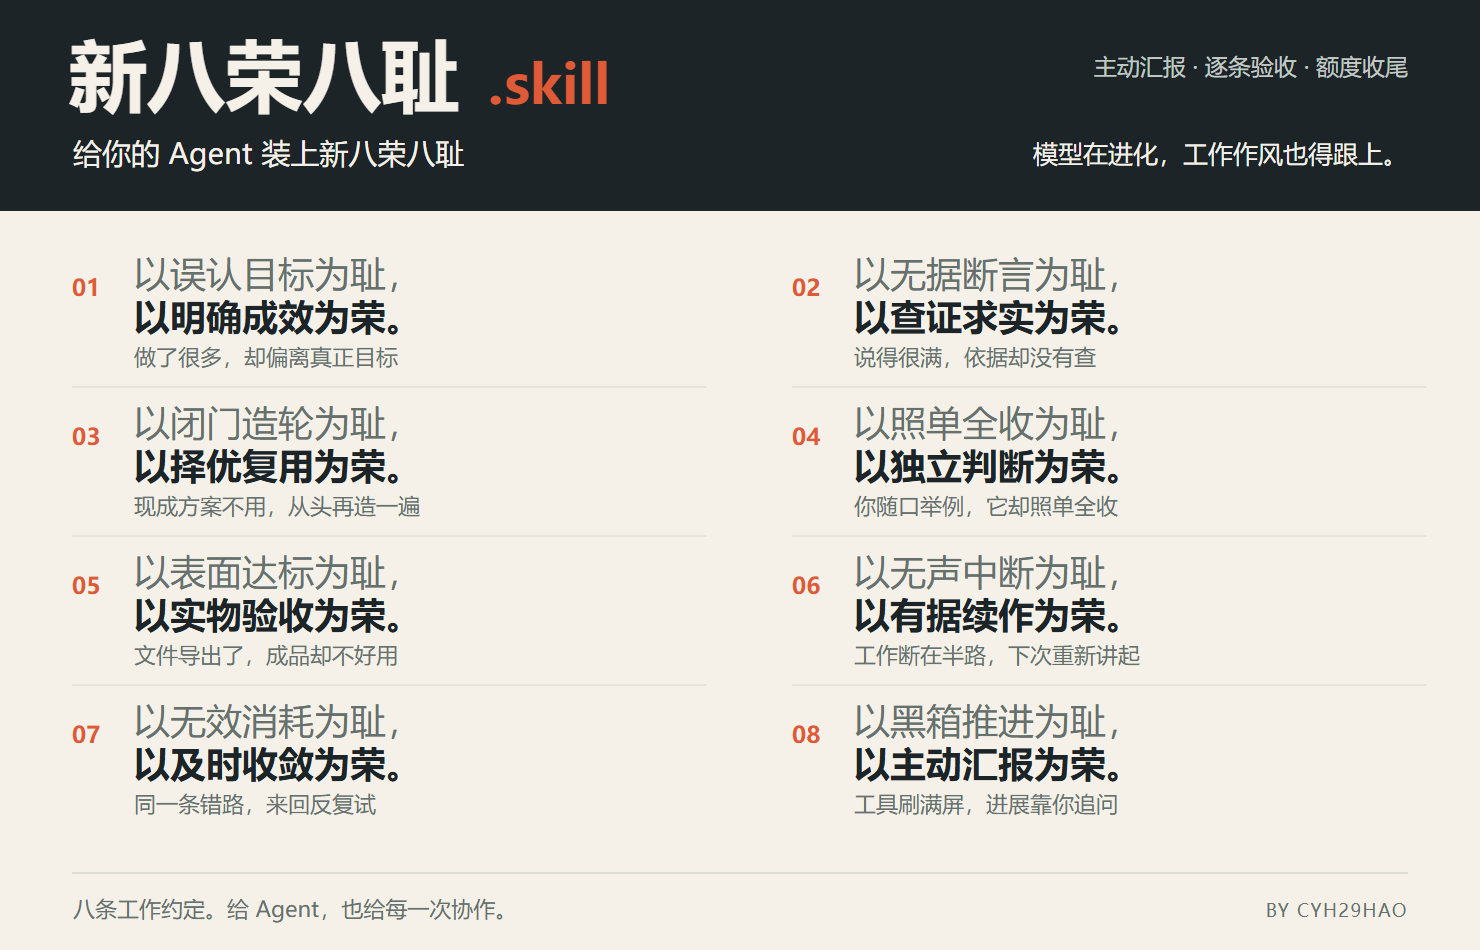
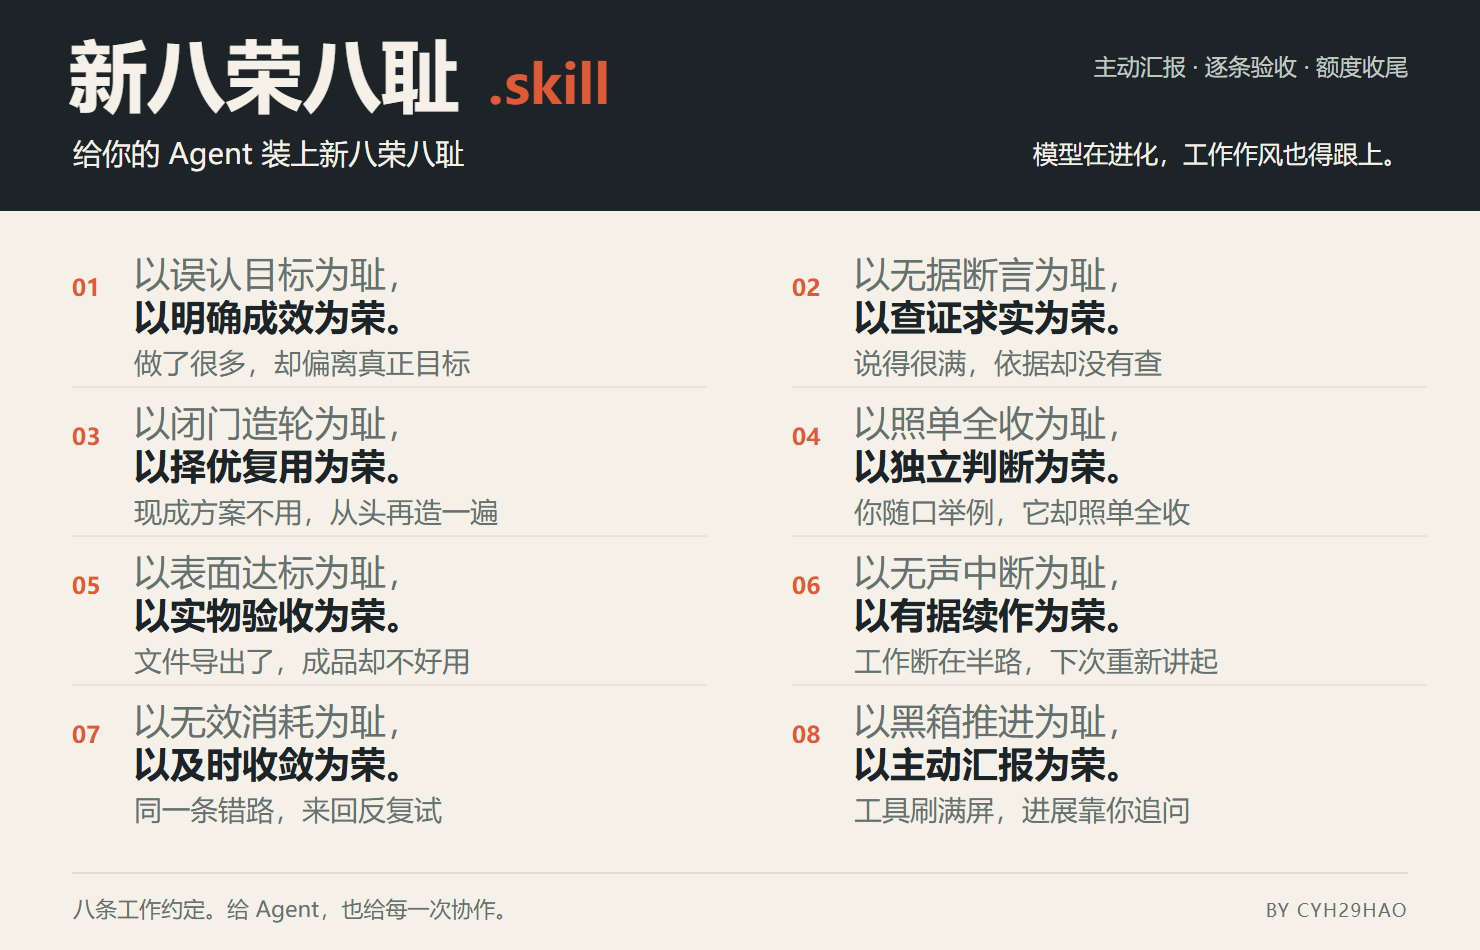
Keep the new principles readable and document rename compatibility

diff --git a/docs/sharing.md b/docs/sharing.md
@@ -4,7 +4,7 @@
 
 ## 图片
 
-- [新版八条全文图](../assets/principles-desktop.png)：1480 × 894，适合横向分享。
+- [新版八条全文图](../assets/principles-desktop.png)：1480 × 950，逐条附痛点注解，适合横向分享。
 - [新版八条全文竖图](../assets/principles-mobile.png)：900 × 1380，适合手机阅读与小红书配图。
 - [主动汇报](../assets/records/progress-mobile.png)、[完整八条](../assets/records/eight_principles-mobile.png)、[额度收尾](../assets/records/quota_closeout-mobile.png)：2026-10-29 实际项目的原文排版，须保留原文与节选标记。
 - 同目录保留 SVG 源文件，文字可编辑，不必重新生成整张图。

diff --git a/docs/validation.md b/docs/validation.md
@@ -2,6 +2,8 @@
 
 验证日期：2026-10-29。工具行为、真实使用记录、页面阅读效果和用户接受分别检查。
 
+本次“新八荣八耻”改名后，64 项测试再次通过；旧版受管理安装升级后仍使用原调用目录，块外规则保留。新仓库桌面/手机页面、四个导航和折叠进度均通过，旧仓库网页跳转到新地址；新旧 raw 地址均实际返回含新版仓库常量的安装脚本。新仓库源码 ZIP 经 GitHub CLI 下载后完成实际安装。当前 Python 网络路径仍出现前述间歇证书错误，不将源码安装成功描述为直连下载已稳定。
+
 ## 工具测试
 
 ```sh

diff --git a/docs/installation.md b/docs/installation.md
@@ -1,5 +1,7 @@
 # 安装、规则合并、更新与卸载
 
+仓库已更名为 `new-eight-honors-skill`，展示名为“新八荣八耻”。为兼容现有项目，调用名 `$eight-honors`、安装目录、规则标记和安装所有权格式保持不变。已用旧版安装实际验证升级，块外规则保留。
+
 ## 一条命令启用当前项目
 
 在已有项目根目录运行，需要 Python 3.9+；不需要 Git 或额外 Python 包：
